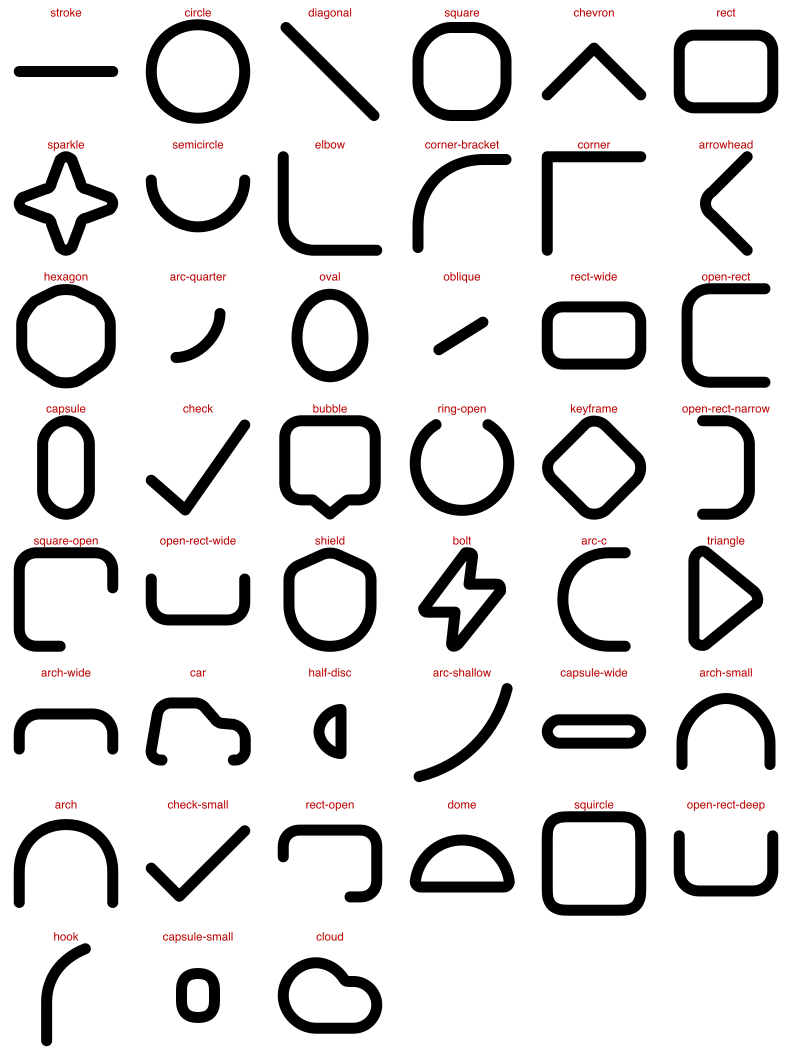
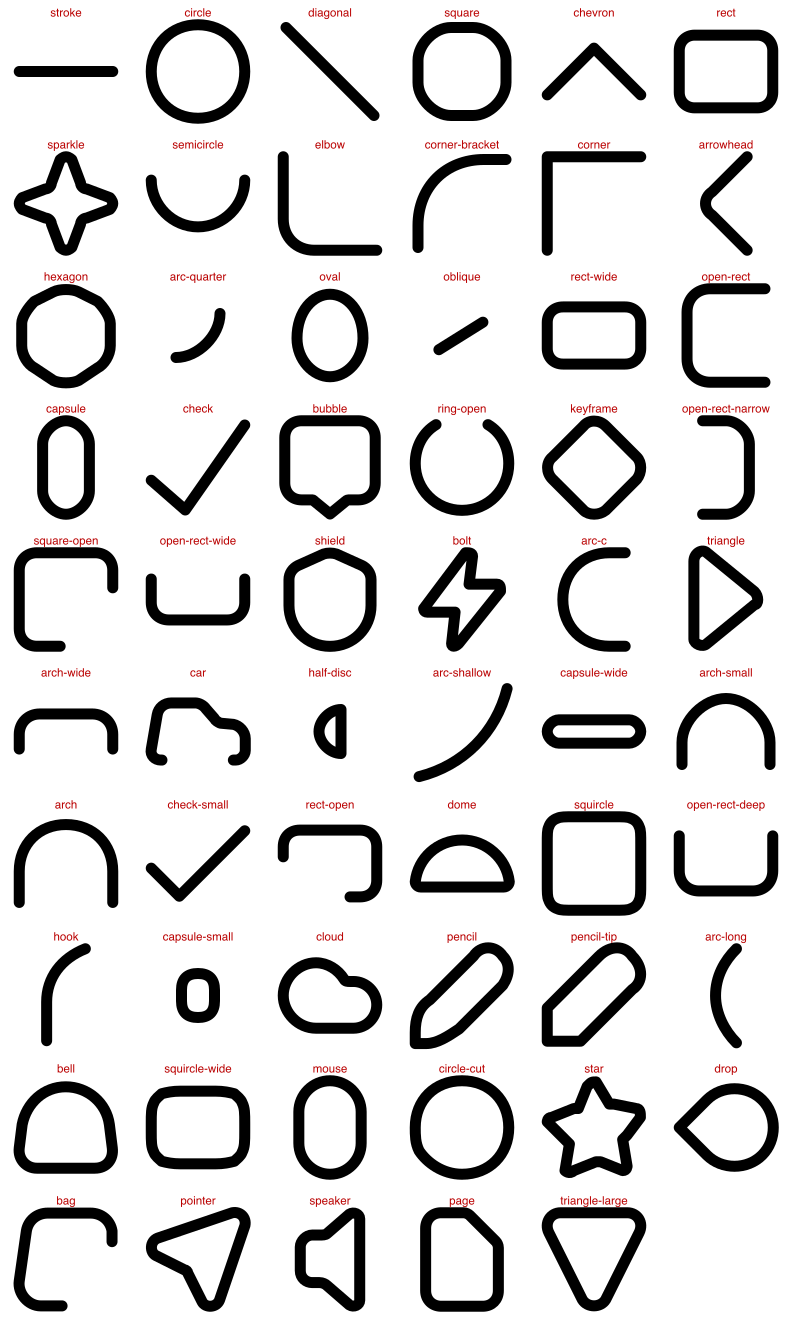
Extend the vocabulary to 59 names, and stop at the point words stop paying
Fourteen more marks the icon evidence names without ambiguity: pencil, page,
speaker, star, drop, bag, pointer, bell, mouse and the rest, each verified
landing on the part id it was read off. Seven are flagged for a human, taking
the unsure count to 21 of 59 — the flags are the useful part and they are not
rounded down.

What is deliberately left unnamed is the other half of the work. The stadium
tiers, the ellipse and eleven more open-rect members are the same mark at
different proportions, and a word that buys no extra mark is a cost paid by
every model that reads the vocabulary. The module comment says so.

The two families are recorded with their ids, and measuring them answered a
question this repo had open: they are NOT the near-miss in #18. `bucketKey`
files candidates by open/closed, node count and folded aspect in thirds, and
two candidates in different buckets are never compared at all. So these are not
0.07-against-0.06 misses — p0111/p0112 is 0.006, p0044/p0042 0.006,
p0038/p0039 0.013 — and the rest are Infinity, refused outright by the aspect
gate. Raising the threshold closes #18 and none of them. #19 is bucketing, and
it is bigger than it looked: open-rect is ~20 ids across the top 90, not 8, and
the straight run is 7 angles, not 5. Both notes in the file undercounted and
are corrected.

Also fixes the generator rather than its output: it wrapped prose and wrote
table rules the formatter rewrites, so every regeneration left `npm run check`
[…]

diff --git a/src/parts/vocabulary.ts b/src/parts/vocabulary.ts
@@ -25,11 +25,12 @@
  * the evidence supports. A wrong name is worse than a missing one, because a
  * wrong one gets used.
  *
- * NOT EVERY PART GETS A WORD. Ranks below these have marks the set clearly
- * draws, and they are deliberately left unnamed where a name would only be a
- * proportion of a mark already named — the stadium at 1.5:1 and 2.7:1 beside
- * `capsule` at 2:1, the oval at 1.5:1 beside `oval`. Words are what a model
- * chooses between, so an extra word for no extra mark is a cost, not coverage.
+ * NOT EVERY PART GETS A WORD. The unnamed ranks still hold marks the set draws
+ * often, and they are left unnamed where a name would only be a proportion of a
+ * mark already named — the stadiums at 1:2.7 (p0156) and 1:3.3 (p0157) beside
+ * `capsule` at 1:2, the ellipse at 1:1.5 (p0087) beside `oval` at 1:1.25. Words
+ * are what a model chooses between, so an extra word buying no extra mark is a
+ * cost, not coverage.
  *
  * TWO FAMILIES ARE ONE MARK EACH, SPLIT BY THE CLUSTERER.
  *
@@ -56,12 +57,13 @@
  * regardless. The rest score `Infinity`, refused outright by the aspect gate in
  * `turnsToTry`. Raising the threshold reaches neither group.
  *
- * That makes these a different failure from the one task #18 isolated. There a
- * mark and its transpose are compared and miss the fold by 0.010 against 0.06,
- * which is a threshold-or-resolution question about one pair. Here the
+ * That makes these a different failure from the one isolated alongside them,
+ * where a mark and its transpose ARE compared and miss the fold by 0.010
+ * against 0.06 — a threshold-or-resolution question about one pair. Here the
  * comparison never happens, which is a bucketing question about roughly twenty
- * parts. Fixing #18 will not close these, and the qualifiers in the names above
- * are a holding position until something does.
+ * parts. Widening the threshold closes the first and none of the second, and
+ * the qualifiers in the names above are a holding position until the clusterer
+ * merges what it should.
  */
 import { parsePath } from "../geometry/path.js";
 import type { Part } from "../types.js";
@@ -177,7 +179,7 @@ export const VOCABULARY: NamedShape[] = [
   {
     d: "M0 1.25L2 0",
     name: "oblique",
-    note: "a straight segment at an angle the house spec does not snap to (30 deg here). Four more clusters are the same mark at 38, 51, 59 and 68 degrees, all within the clustering threshold of this one — the fingerprint of a bare segment barely varies with angle, so only the aspect bucket keeps them apart",
+    note: "a straight segment at an angle the house spec does not snap to (30 deg here). Six more clusters are the same mark at 27, 38, 51, 59, 66 and 68 degrees — the fingerprint of a bare segment barely varies with angle, so only the aspect bucket keeps them apart, and they are left unnamed rather than given six words for one mark",
     sure: false,
   },
   {
@@ -189,7 +191,7 @@ export const VOCABULARY: NamedShape[] = [
   {
     d: "M10 0L3 0C1.25 0 0 1.25 0 3L0 9C0 10.75 1.25 12 3 12L10 12",
     name: "open-rect",
-    note: "rounded rect with one side missing; the package and box body. Head of an eight-cluster family — see the family note",
+    note: "rounded rect with one side missing; the package and box body. Head of a family of about twenty clusters — see the family note",
     sure: false,
   },
   {

diff --git a/scripts/vocabulary-sheet.ts b/scripts/vocabulary-sheet.ts
@@ -62,6 +62,9 @@ if (!source) {
   process.exit(1);
 }
 
+// The markdown below is written the way the formatter wants it — prose on one
+// line, `| --- |` rules — so that regenerating the doc leaves `npm run check`
+// green. Rewrapping it here means a fix pass after every run.
 const doc = JSON.parse(readFileSync(source, "utf-8")) as { parts: Part[] };
 const named = nameParts(doc.parts).filter((p) => p.name);
 const notes = new Map(VOCABULARY.map((v) => [v.name, v]));
@@ -83,25 +86,17 @@ writeFileSync(
   path.join(DOCS, "VOCABULARY.md"),
   `# The parts vocabulary
 
-Generated by \`scripts/vocabulary-sheet.ts\` from a \`forge parts\` extraction of
-${doc.parts.length} parts, ${named.length} of which a name reaches.
-The names themselves live in \`src/parts/vocabulary.ts\`, one entry per mark with
-the canonical drawing it was read off; \`nameParts\` matches them onto an
-extraction by shape, so they survive a re-run.
+Generated by \`scripts/vocabulary-sheet.ts\` from a \`forge parts\` extraction of ${doc.parts.length} parts, ${named.length} of which a name reaches. The names themselves live in \`src/parts/vocabulary.ts\`, one entry per mark with the canonical drawing it was read off; \`nameParts\` matches them onto an extraction by shape, so they survive a re-run.
 
 ![contact sheet](./vocabulary.png)
 
-Read the sheet and the table together — every tile is labelled with the name in
-the row below. **⚠ marks a name to check before anything depends on it.**
+Read the sheet and the table together — every tile is labelled with the name in the row below. **⚠ marks a name to check before anything depends on it.**
 
 | name | size | icons | instances | turns drawn | mirrored | example icons |
-|------|------|-------|-----------|-------------|----------|---------------|
+| --- | --- | --- | --- | --- | --- | --- |
 ${rows.join("\n")}
 
-*turns* is the quarter-turns the set actually draws the mark at, and *mirrored*
-how many of its instances are reflections. Both are measured, and both are the
-reason a name must not presume a direction: a mark drawn at four turns cannot be
-called \`bottom-left-corner\` and stay true.
+_turns_ is the quarter-turns the set actually draws the mark at, and _mirrored_ how many of its instances are reflections. Both are measured, and both are the reason a name must not presume a direction: a mark drawn at four turns cannot be called \`bottom-left-corner\` and stay true.
 
 ## Names to check (${unsure.length})
 

diff --git a/docs/VOCABULARY.md b/docs/VOCABULARY.md
@@ -1,6 +1,6 @@
 # The parts vocabulary
 
-Generated by `scripts/vocabulary-sheet.ts` from a `forge parts` extraction of 199 parts, 45 of which a name reaches. The names themselves live in `src/parts/vocabulary.ts`, one entry per mark with the canonical drawing it was read off; `nameParts` matches them onto an extraction by shape, so they survive a re-run.
+Generated by `scripts/vocabulary-sheet.ts` from a `forge parts` extraction of 199 parts, 59 of which a name reaches. The names themselves live in `src/parts/vocabulary.ts`, one entry per mark with the canonical drawing it was read off; `nameParts` matches them onto an extraction by shape, so they survive a re-run.
 
 ![contact sheet](./vocabulary.png)
 
@@ -53,13 +53,27 @@ Read the sheet and the table together — every tile is labelled with the name i
 | `hook` | 2×4.83 | 11 | 16 | 0/90/180/270 | 7/16 | arrows-repeat-right-left-off, calendar-clock, calendar-clock-4 |
 | `capsule-small` ⚠ | 1.5×2 | 11 | 13 | 0/180/270 | 8/13 | back-10s, crypto-wallet, form-capsule |
 | `cloud` | 20×14 | 11 | 13 | 0/180 | 5/13 | cloud, cloud-simple, cloud-snow |
+| `pencil` | 6.41×6.41 | 11 | 11 | 0 | never | calendar-edit, magic-edit, pencil-2 |
+| `pencil-tip` ⚠ | 6.32×6.32 | 10 | 11 | 0/90/180/270 | never | bezier-edit, dumbell, growth |
+| `arc-long` ⚠ | 3×13.42 | 9 | 13 | 0/90/180/270 | 2/13 | email-notification, eye-closed, face-id-face |
+| `bell` ⚠ | 16.08×14 | 9 | 10 | 0/90/180 | 3/10 | bell, bell-active, bell-check |
+| `squircle-wide` ⚠ | 18×14 | 9 | 9 | 0/180/270 | 6/9 | archive, camera-4, card |
+| `mouse` ⚠ | 10×15 | 9 | 9 | 0/90 | 3/9 | gamepad, mouse, mouse-classic |
+| `circle-cut` ⚠ | 6×6 | 8 | 12 | 0/180 | 7/12 | anonymous, breakfast, incognito |
+| `star` | 5.27×5.14 | 8 | 10 | 0/180/270 | 3/10 | emoji-star-struck, magic-wand, make-it-pop |
+| `drop` | 11×9 | 8 | 10 | 0/90/180 | 3/10 | drop, fire-2, footsteps |
+| `bag` | 13.1×13 | 8 | 8 | 0 | 1/8 | bag-2-sparkle, package-delivery-1, package-delivery-2 |
+| `pointer` | 14.72×14.72 | 8 | 8 | 0/90 | 7/8 | bezier-pointer, collaboration-pointer-left, collaboration-pointer-right |
+| `speaker` | 10×15.73 | 8 | 8 | 0/180 | 1/8 | sound-fx, voiceover, volume-down |
+| `page` | 14×18 | 8 | 8 | 0/90/270 | 1/8 | arrow-left-x, backward, direction-1 |
+| `triangle-large` ⚠ | 14×14 | 8 | 8 | 0/90/180/270 | 2/8 | arrow-triangle-bottom, arrow-triangle-left, arrow-triangle-right |
 
 _turns_ is the quarter-turns the set actually draws the mark at, and _mirrored_ how many of its instances are reflections. Both are measured, and both are the reason a name must not presume a direction: a mark drawn at four turns cannot be called `bottom-left-corner` and stay true.
 
-## Names to check (14)
+## Names to check (21)
 
-- **`oblique`** — a straight segment at an angle the house spec does not snap to (30 deg here). Four more clusters are the same mark at 38, 51, 59 and 68 degrees, all within the clustering threshold of this one — the fingerprint of a bare segment barely varies with angle, so only the aspect bucket keeps them apart
-- **`open-rect`** — rounded rect with one side missing; the package and box body. Head of an eight-cluster family — see the family note
+- **`oblique`** — a straight segment at an angle the house spec does not snap to (30 deg here). Six more clusters are the same mark at 27, 38, 51, 59, 66 and 68 degrees — the fingerprint of a bare segment barely varies with angle, so only the aspect bucket keeps them apart, and they are left unnamed rather than given six words for one mark
+- **`open-rect`** — rounded rect with one side missing; the package and box body. Head of a family of about twenty clusters — see the family note
 - **`open-rect-narrow`** — 1:2 open rect; the battery terminal. Family member
 - **`square-open`** — rounded square with one corner opened; boolean and bezier icons. 0.054 from the 12-unit cluster, which is the same mark
 - **`open-rect-wide`** — 2.3:1 open rect; bag and box bodies. Family member
@@ -72,3 +86,10 @@ _turns_ is the quarter-turns the set actually draws the mark at, and _mirrored_ 
 - **`rect-open`** — landscape rounded rect with a corner opened; page-link, slides, picture-in-picture
 - **`open-rect-deep`** — 1.7:1 open rect; gift, notebook, window. Family member
 - **`capsule-small`** — the smallest stadium tier; probably `capsule` rather than its own mark
+- **`pencil-tip`** — `pencil` with the far end cut to a nib rather than rounded; 8 of its 10 icons are also edit marks. Flagged because the tip is the only thing separating it from `pencil`, and a model choosing between the two by name will not see that
+- **`arc-long`** — a shallow arc over 4.5 times its own width; the cheek of a face, the closed eye. Same family as `arc-quarter` and `arc-shallow`, kept apart only by the aspect bucket
+- **`bell`** — dome flaring to a wider flat base. Named from the mark rather than the icons: only 3 of its 9 are bell-, and it also serves as a cap, a trophy cup and an emoji mouth
+- **`squircle-wide`** — the 16-node continuous-curvature treatment of `squircle` at 9:7; card, archive, sd-card. Flagged as the landscape tier of `squircle` rather than a mark of its own
+- **`mouse`** — geometrically a 2:3 stadium — `capsule` at another proportion — and named from its icons instead: mouse, mouse-classic, mouse-scroll-. Flagged because the shape does not carry the word; 5 of its 9 icons are something else
+- **`circle-cut`** — circle with one chord flattened, which is what a circle looks like where something joins or knocks out of it — the magnifier lens meeting its handle, a share node meeting its arm. Named for the geometry because the icons do not agree on one object
+- **`triangle-large`** — `triangle` at 14 units and equilateral rather than 3.7 and isosceles; arrow-triangle-, exclamation-triangle. Flagged as a size and proportion tier of `triangle`
